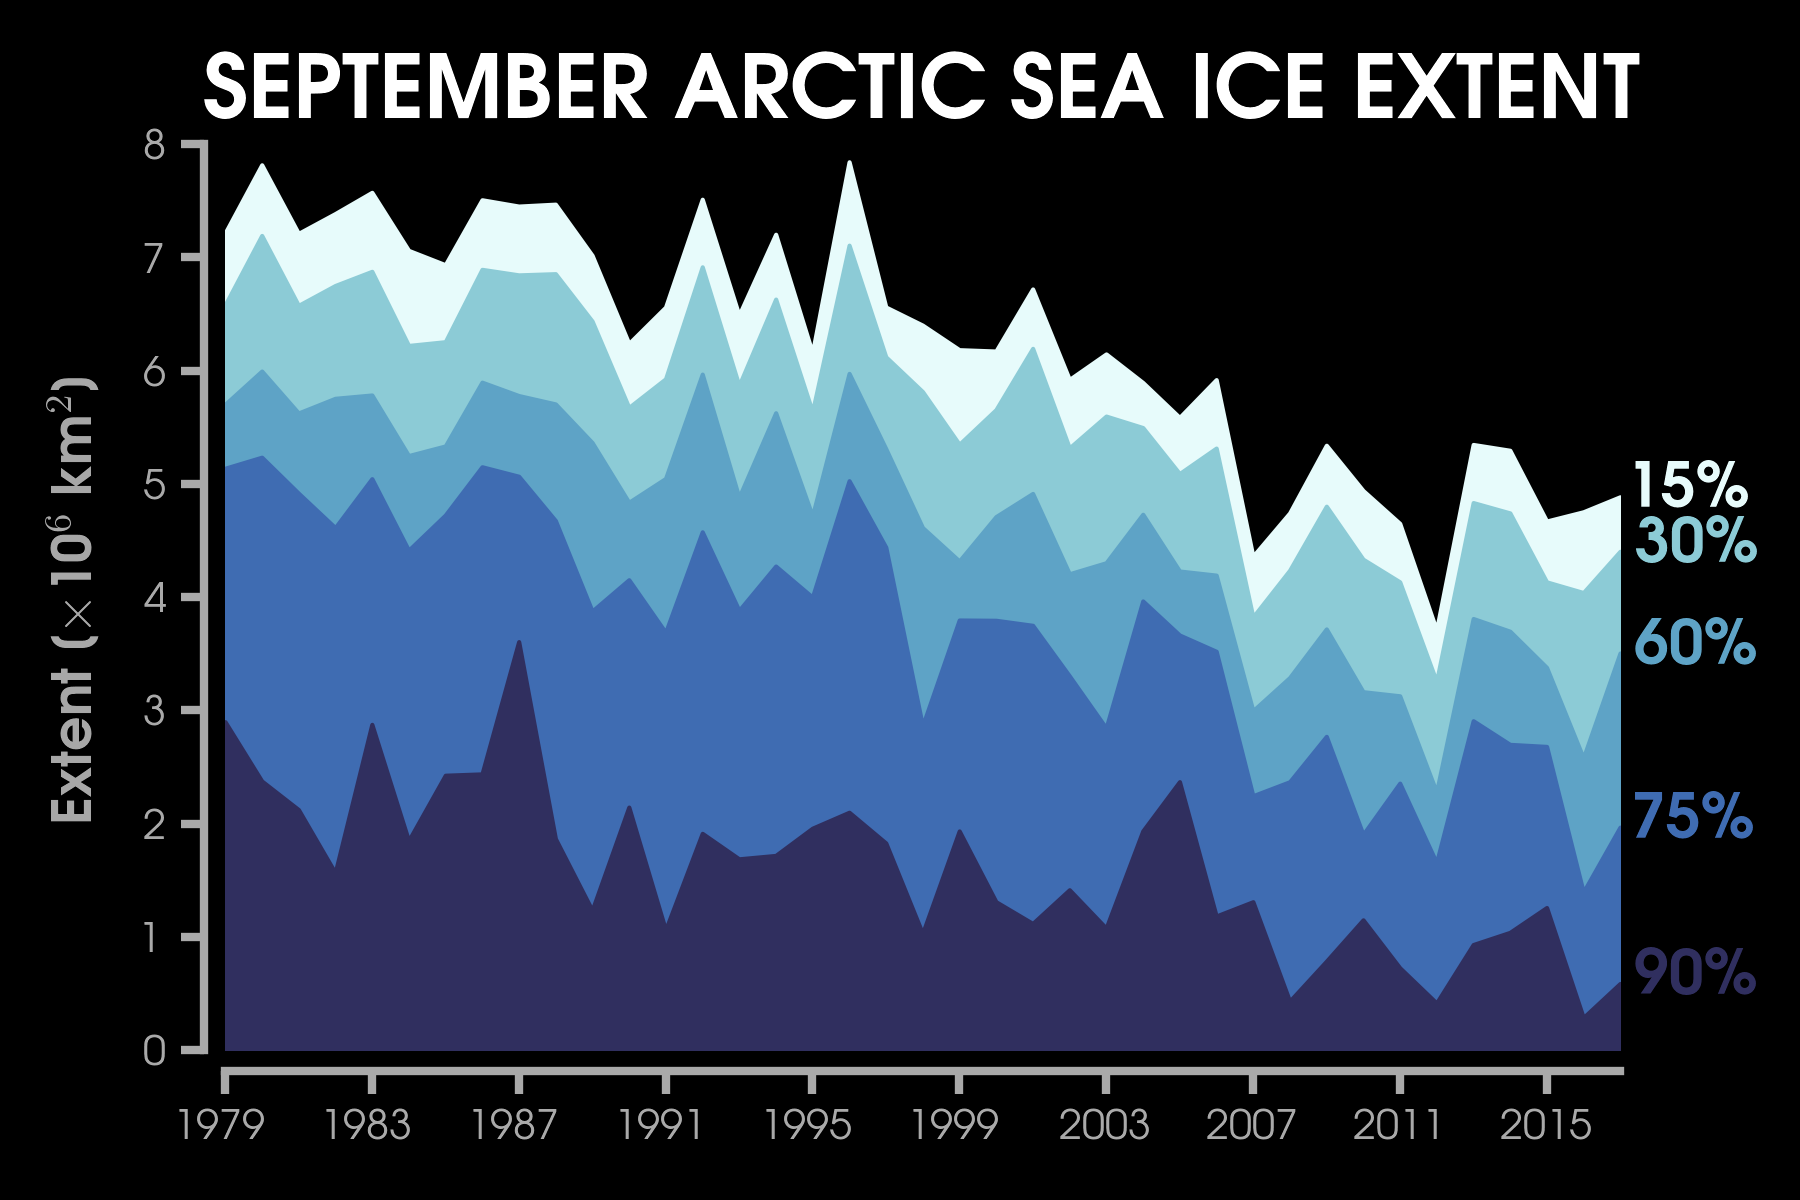
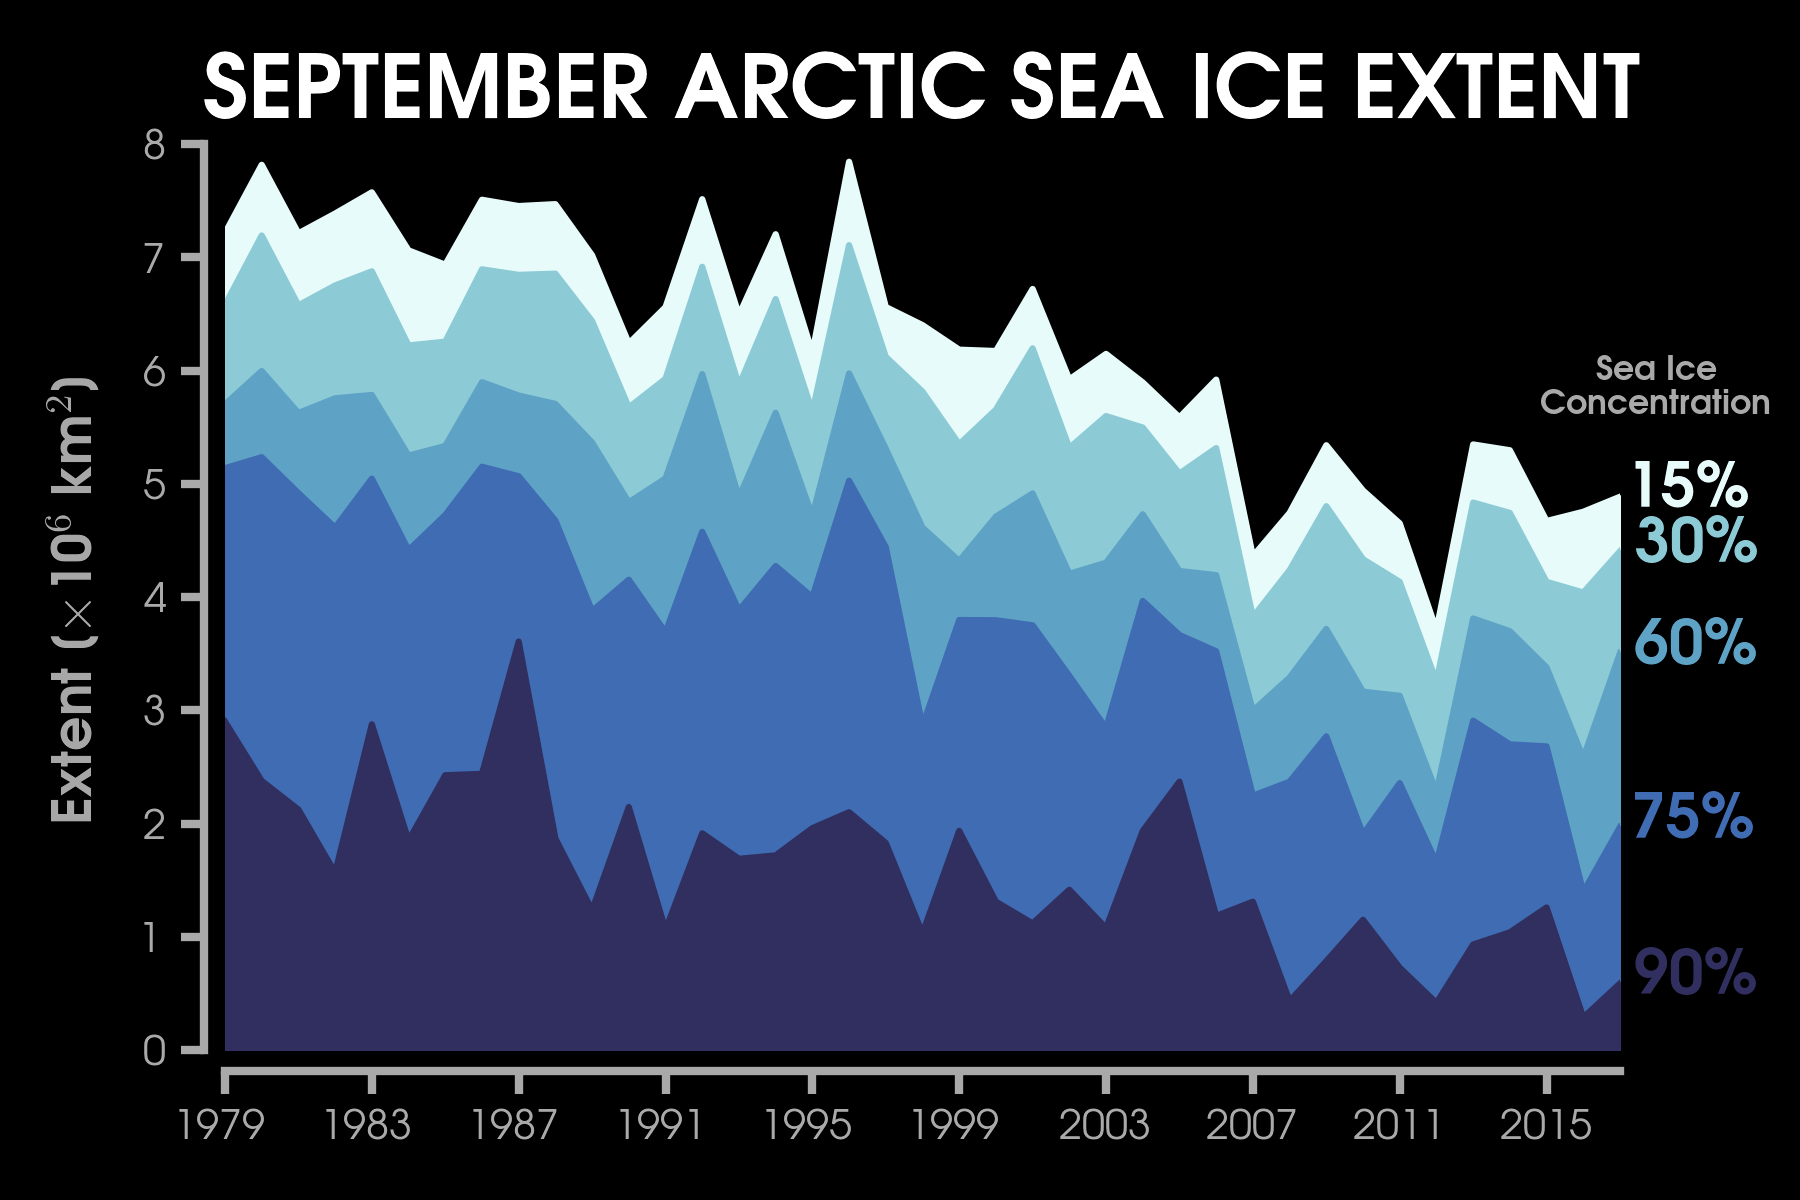
Sept Animation

Changed region(s): [[0.8711, 0.2775, 0.9956, 0.37], [0.7778, 0.4625, 0.8089, 0.5242], [0.4356, 0.2467, 0.4667, 0.2775]]

diff --git a/VisualsNOAA/calc_NSIDC_SICmin.py b/VisualsNOAA/calc_NSIDC_SICmin.py
@@ -1,0 +1,162 @@
+"""
+Script reads Sea Ice Concentrations from Nimbus-7 SMMR and DMSP SSM/I-SSMIS
+Passive Microwave Data, Version 1 binary files for select variables and 
+regrids according to selected grid style (e.g., NSIDC EASE grid data). 
+ 
+Source : https://nsidc.org/data/nsidc-0051#
+Author : Zachary Labe
+Date : 19 August 2018
+"""
+
+### Import Modules
+import numpy as np
+from netCDF4 import Dataset
+import matplotlib.pyplot as plt
+from mpl_toolkits.basemap import Basemap
+import matplotlib.colors as c
+from scipy.interpolate import griddata as g
+import datetime
+import numpy.ma as ma
+
+### Define directories
+directorydata = '/seley/zlabe/seaice/nsidc/SepMinSIC/'    
+directoryfigure = '/home/zlabe/Documents/Projects/ClimatePython/VisualsNOAA/' 
+
+yearmin = 1979               # first time includes 12 months
+yearmax = 2017
+years = np.arange(yearmin,yearmax+1,1)
+months = np.arange(1,13,1)
+       
+### Define time           
+now = datetime.datetime.now()
+currentmn = str(now.month)
+currentdy = str(now.day)
+currentyr = str(now.year)
+currenttime = currentmn + '_' + currentdy + '_' + currentyr
+titletime = currentmn + '/' + currentdy + '/' + currentyr
+
+print('\n' 'Satellite SIC Read & Regrid - %s' '\n' % titletime) 
+
+def sicRead(directory,years):
+    """
+    Reads binary sic data
+    """
+    
+    ### Read binary lat x lon arrays
+    directorydata1 = '/surtsey/zlabe/seaice/sic/sic_rename/' 
+    lons = np.fromfile(directorydata1 + 'psn25lons_v3.dat',dtype='<i4')
+    lons = (np.reshape(lons,(448,304)))/100000.  # Scale Factor
+    lats = np.fromfile(directorydata1 + 'psn25lats_v3.dat',dtype='<i4')
+    lats = (np.reshape(lats,(448,304)))/100000.  # Scale Factor
+    
+    ### Read binary sea ice concentration
+    ice = np.empty((len(years),136192))
+    for i in range(len(years)):    
+        if years[i] <= 1986:
+            filename = 'nt_%s0915_n07_v1.1_n.bin' % (years[i])
+        elif years[i]>1986 and years[i]<=1991:
+            filename = 'nt_%s0915_f08_v1.1_n.bin' % (years[i])
+        elif years[i]>1991 and years[i]<=1995:
+            filename = 'nt_%s0915_f11_v1.1_n.bin' % (years[i])
+        elif years[i]>1995 and years[i]<=2007:
+            filename = 'nt_%s0915_f13_v1.1_n.bin' % (years[i])
+        elif years[i]>2007 and years[i]<=2018:
+            filename = 'nt_%s0915_f17_v1.1_n.bin' % (years[i])
+        infile = directory + filename
+        
+        with open(infile, 'rb') as fr:
+            hdr = fr.read(300)
+            ice[i,:] = np.fromfile(fr, dtype=np.uint8)
+    
+    ice = np.reshape(ice,(ice.shape[0],448,304))
+    ice = ice/250               # Scale Factor
+    
+    ### Assign mask
+    mask = np.fromfile(directorydata1 + 'gsfc_25n.msk',dtype='int8')
+    mask = np.reshape(mask,(448,304))
+    mask = mask.astype(float)
+    mask[np.where(mask == 1.0)] = np.nan
+    mask[np.where(mask == 0.0)] = 1.0
+    ice = ice*mask
+    
+    ice = ice*100.
+    
+    print('Completed: Read SIC data!' )
+    return lats,lons,ice,hdr,mask
+
+### Call data
+lat2,lon2,sic,hdr,mask = sicRead(directorydata,years)
+
+### Calculate climatology
+yearmean = np.where((years>=1981) & (years<=2010))[0]
+mean = np.nanmean(sic[yearmean],axis=0)
+
+def netcdfFile(lats,lons,var,directory):
+    print('\n>>> Using netcdfFile function!')
+    
+    name = 'NSIDC_09_1979-2018.nc'
+    filename = directory + name
+    ncfile = Dataset(filename,'w',format='NETCDF4')
+    ncfile.description = '15 September 1979-2018 SIC data'
+    
+    ### Dimensions
+    ncfile.createDimension('years',var.shape[0])
+    ncfile.createDimension('lat',var.shape[1])
+    ncfile.createDimension('lon',var.shape[2])
+    
+    ### Variables
+    years = ncfile.createVariable('years','f4',('years'))
+    latitude = ncfile.createVariable('lat','f4',('lat','lon'))
+    longitude = ncfile.createVariable('lon','f4',('lat','lon'))
+    varns = ncfile.createVariable('sic','f4',('years','lat','lon'))
+    
+    ### Units
+    varns.units = '%'
+    ncfile.title = 'Daily NSIDC Data'
+    ncfile.instituion = 'Dept. ESS at University of California, Irvine'
+    ncfile.source = 'NSIDC Data'
+    ncfile.references = 'SSMIS (DMSP)]'
+    
+    ### Data
+    years[:] = np.arange(1979,2017+1,1)
+    latitude[:] = lats
+    longitude[:] = lons
+    varns[:] = var
+    
+    ncfile.close()
+    print('*Completed: Created netCDF4 File!')
+    
+def netcdfFileMean(lats,lons,var,directory):
+    print('\n>>> Using netcdfFile function!')
+    
+    name = 'NSIDC_09_Climo.nc'
+    filename = directory + name
+    ncfile = Dataset(filename,'w',format='NETCDF4')
+    ncfile.description = '15 September Climo (1981-2010) SIC data'
+    
+    ### Dimensions
+    ncfile.createDimension('lat',var.shape[0])
+    ncfile.createDimension('lon',var.shape[1])
+    
+    ### Variables
+    latitude = ncfile.createVariable('lat','f4',('lat','lon'))
+    longitude = ncfile.createVariable('lon','f4',('lat','lon'))
+    varns = ncfile.createVariable('sic','f4',('lat','lon'))
+    
+    ### Units
+    varns.units = '%'
+    ncfile.title = 'Daily NSIDC Data Climatology'
+    ncfile.instituion = 'Dept. ESS at University of California, Irvine'
+    ncfile.source = 'NSIDC Data'
+    ncfile.references = 'SSMIS (DMSP)]'
+    
+    ### Data
+    latitude[:] = lats
+    longitude[:] = lons
+    varns[:] = var
+    
+    ncfile.close()
+    print('*Completed: Created netCDF4 File!')
+    
+#netcdfFile(lat2,lon2,sic,directorydata)
+netcdfFileMean(lat2,lon2,mean,directorydata)

diff --git a/VisualsNOAA/plot_NSIDC_SICmin.py b/VisualsNOAA/plot_NSIDC_SICmin.py
@@ -1,0 +1,115 @@
+"""
+HadCRUT4 Temperature anomalies (gridded)
+Website   : https://crudata.uea.ac.uk/cru/data/temperature/
+Author    : Zachary M. Labe
+Date      : 15 June 2016
+"""
+
+from netCDF4 import Dataset
+import matplotlib.pyplot as plt
+from mpl_toolkits.basemap import Basemap, addcyclic, shiftgrid
+import numpy as np
+import datetime
+import calendar as cal
+from matplotlib.colors import ListedColormap, BoundaryNorm
+import cmocean
+
+### Define constants
+directorydata = '/seley/zlabe/seaice/nsidc/SepMinSIC/'
[1 lines of base64/hex data omitted]
+now = datetime.datetime.now()
+month = now.month
+
+years = np.arange(1979,2017+1,1)
+
+data = Dataset(directorydata + 'NSIDC_09_1979-2018.nc')
+lat2 = data.variables['lat'][:]
+lon2 = data.variables['lon'][:]
+sic = data.variables['sic'][:,:,:]
+data.close()
+
+data = Dataset(directorydata + 'NSIDC_09_Climo.nc')
+mean = data.variables['sic'][:,:]
+data.close()
+
+sic[np.where(sic<15.)]=np.nan
+sic[np.where(sic>=15.)]=100.
+
+### Define parameters (dark)
+def setcolor(x, color):
+     for m in x:
+         for t in x[m][1]:
+             t.set_color(color)
+
+plt.rc('text',usetex=True)
+plt.rc('font',**{'family':'sans-serif','sans-serif':['Avant Garde']}) 
+plt.rc('savefig',facecolor='black')
+plt.rc('axes',edgecolor='white')
+plt.rc('xtick',color='white')
+plt.rc('ytick',color='white')
+plt.rc('axes',labelcolor='white')
+plt.rc('axes',facecolor='black')
+
+## Plot global temperature anomalies
+style = 'polar'
+
+### Define figure
+if style == 'ortho':
+    m = Basemap(projection='ortho',lon_0=-90,
+                lat_0=90,resolution='l',round=True)
+elif style == 'polar':
+    m = Basemap(projection='npstere',boundinglat=55,lon_0=270,resolution='l',round =True)
+
+for i in range(sic.shape[0]):
+    fig = plt.figure()
+    ax = plt.subplot(111)
+    for txt in fig.texts:
+        txt.set_visible(False)
+    
+    var = sic[i,:,:]
+
+    m.drawmapboundary(fill_color='k')
+    m.drawlsmask(land_color='k',ocean_color='k')
+    m.drawcoastlines(color='k',linewidth=0.1)
+    m.fillcontinents(color='dimgrey')
+    
+    # Make the plot continuous
+    barlim = np.arange(0.1,1.1,1)
+    
+    cs = m.contourf(lon2,lat2,var,extend='both',
+                    alpha=1,latlon=True,colors='white')
+    cs1 = m.contour(lon2,lat2,mean,
+                    np.arange(15,30,15),alpha=1,latlon=True,
+                    linewidths=2,colors='darkorange')
+    
+    parallels = np.arange(50,86,5)
+    meridians = np.arange(-180,180,30)
+    m.drawparallels(parallels,labels=[False,False,False,False],linewidth=0.0,
+                    color='w')
+    par=m.drawmeridians(meridians,labels=[True,True,False,False],linewidth=0.0,
+                        fontsize=5,color='w')
+    setcolor(par,'darkgrey')
+    
+#    cmap = cmocean.cm.ice  
+#    cs.set_cmap(cmap)
+    plt.annotate(r'\textbf{%s}' % years[i],textcoords='axes fraction',
+                xy=(0,0), xytext=(-0.4,0.92),
+            fontsize=50,color='darkgrey')
+    plt.annotate(r'\textbf{1981-2010 Average : Orange}',textcoords='axes fraction',
+                xy=(0,0), xytext=(-0.4,-0.065),
+            fontsize=8,color='darkorange')
+
+    if i < 10:        
+        plt.savefig(directoryfigure + 'icy_0%s.png' % i,dpi=300)
+    else:
+        plt.savefig(directoryfigure + 'icy_%s.png' % i,dpi=300)
+        if i == 38:
+            plt.savefig(directoryfigure + 'icy_991.png',dpi=300)
+            plt.savefig(directoryfigure + 'icy_992.png',dpi=300)
+            plt.savefig(directoryfigure + 'icy_993.png',dpi=300)
+            plt.savefig(directoryfigure + 'icy_994.png',dpi=300)
+            plt.savefig(directoryfigure + 'icy_995.png',dpi=300)
+            plt.savefig(directoryfigure + 'icy_996.png',dpi=300)
+            plt.savefig(directoryfigure + 'icy_997.png',dpi=300)
+            plt.savefig(directoryfigure + 'icy_998.png',dpi=300)
+            plt.savefig(directoryfigure + 'icy_999.png',dpi=300)

diff --git a/VisualsNOAA/plot_movingSIE.py b/VisualsNOAA/plot_movingSIE.py
@@ -98,6 +98,11 @@ plt.text(2017.4,sie60[-1]-0.1,r'\textbf{60\%}',color=cmocean.cm.ice(0.65),fontsi
 plt.text(2017.4,sie75[-1]-0.1,r'\textbf{75\%}',color=cmocean.cm.ice(0.45),fontsize=15)
 plt.text(2017.4,sie90[-1]-0.1,r'\textbf{90\%}',color=cmocean.cm.ice(0.2),fontsize=15)
 
+plt.text(2018,6,r'\textbf{Sea Ice}',color='darkgrey',fontsize=8,
+          ha='center',va='center')
+plt.text(2018.,5.7,r'\textbf{Concentration}',color='darkgrey',fontsize=8,
+          ha='center',va='center')
+
 plt.ylabel(r'\textbf{Extent [$\bf{\times}$10$^{6}$\ \textbf{km}$^2$]}',
            fontsize=13,color='darkgrey',labelpad=10)
 plt.title(r'\textbf{SEPTEMBER ARCTIC SEA ICE EXTENT}',fontsize=21,
